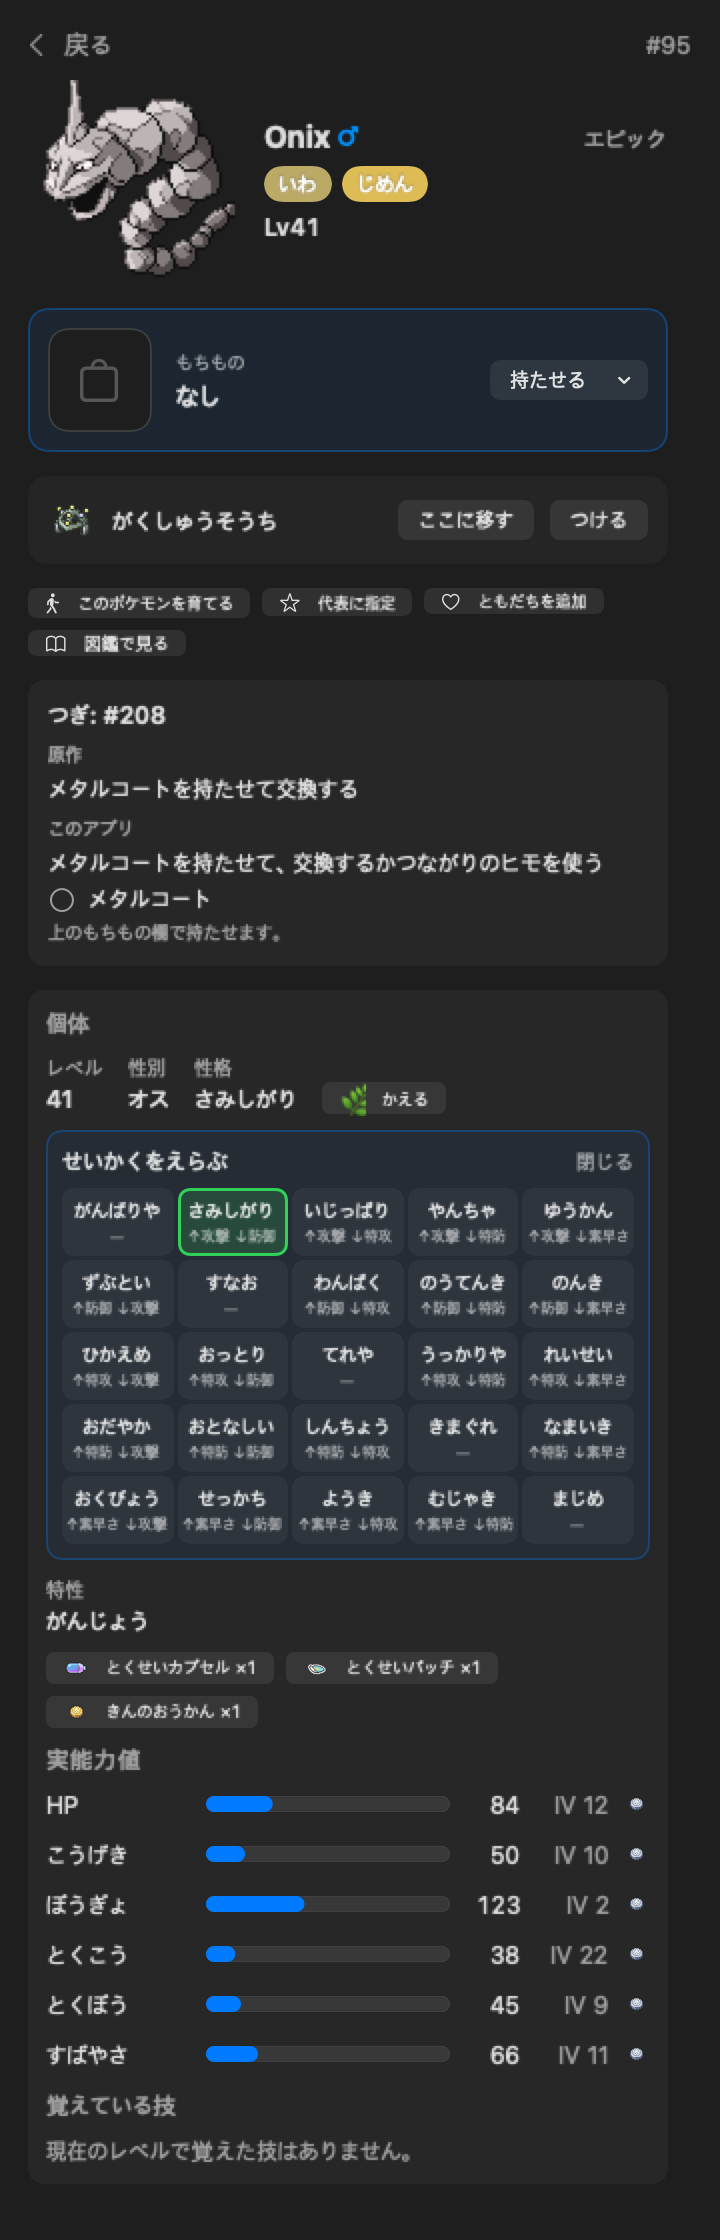
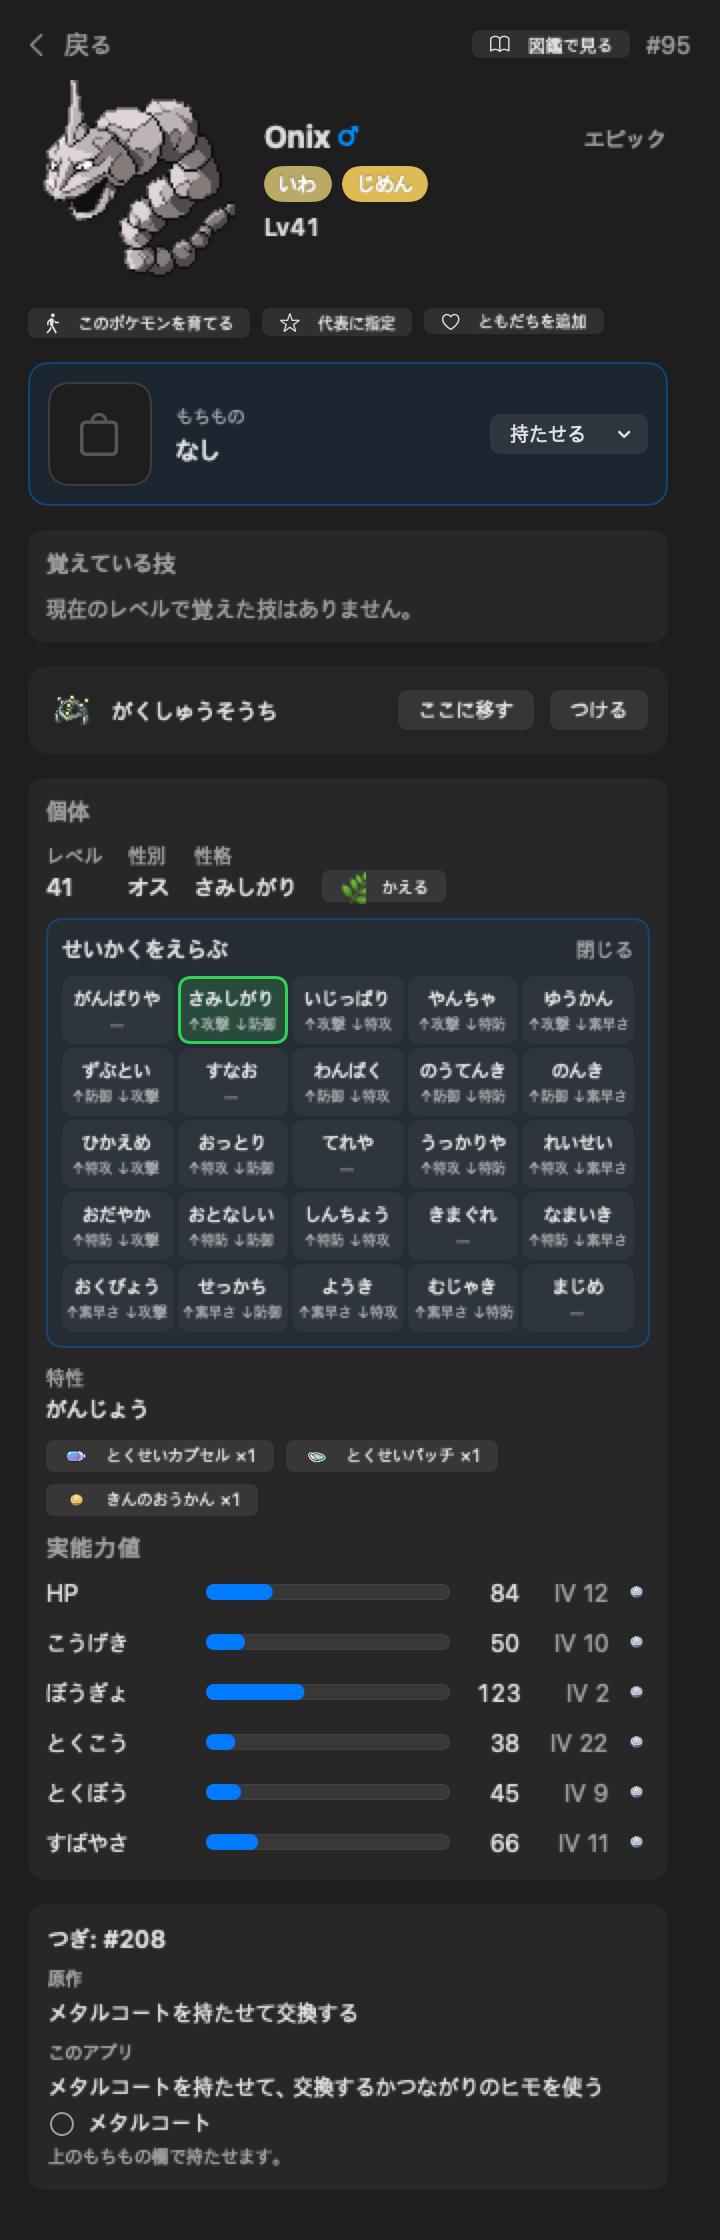
docs(readme): redraw the Box page screenshots for the new section order
The Exp. Share crop grows from 380 to 450 points so the slot stays in frame under the quick actions. The Miracle Trade shot now shows the whole page, since the Miracle row moved to the bottom.

diff --git a/Tests/PokeTokenBarTests/ReadmeScreenshotTests.swift b/Tests/PokeTokenBarTests/ReadmeScreenshotTests.swift
@@ -255,9 +255,9 @@ final class ReadmeScreenshotTests: XCTestCase {
             try await shot(statusMoves(store: store, uploader: eggUploader, entry: entry),
                            "screenshot-egg-moves\(suffix)", in: dir, height: nil)
             try await shot(popover { $0.openBoxDetail(id: StoredFriendScreenshotTests.bulbasaurID) },
-                           "screenshot-exp-share\(suffix)", in: dir, height: 380)
+                           "screenshot-exp-share\(suffix)", in: dir, height: 450)
             try await shot(try miracleTrade(store: store, uploader: uploader, entry: battleEntry),
-                           "screenshot-miracle-trade\(suffix)", in: dir, height: 672)
+                           "screenshot-miracle-trade\(suffix)", in: dir, height: nil)
             let (battleStore, battleCleanup) = try BoxDexFixture.makeStore(
                 language: language, mutate: { Self.sample(&$0); Self.addKyogre(&$0) }, defaults: defaults,
                 clock: { Self.pinnedNow })
